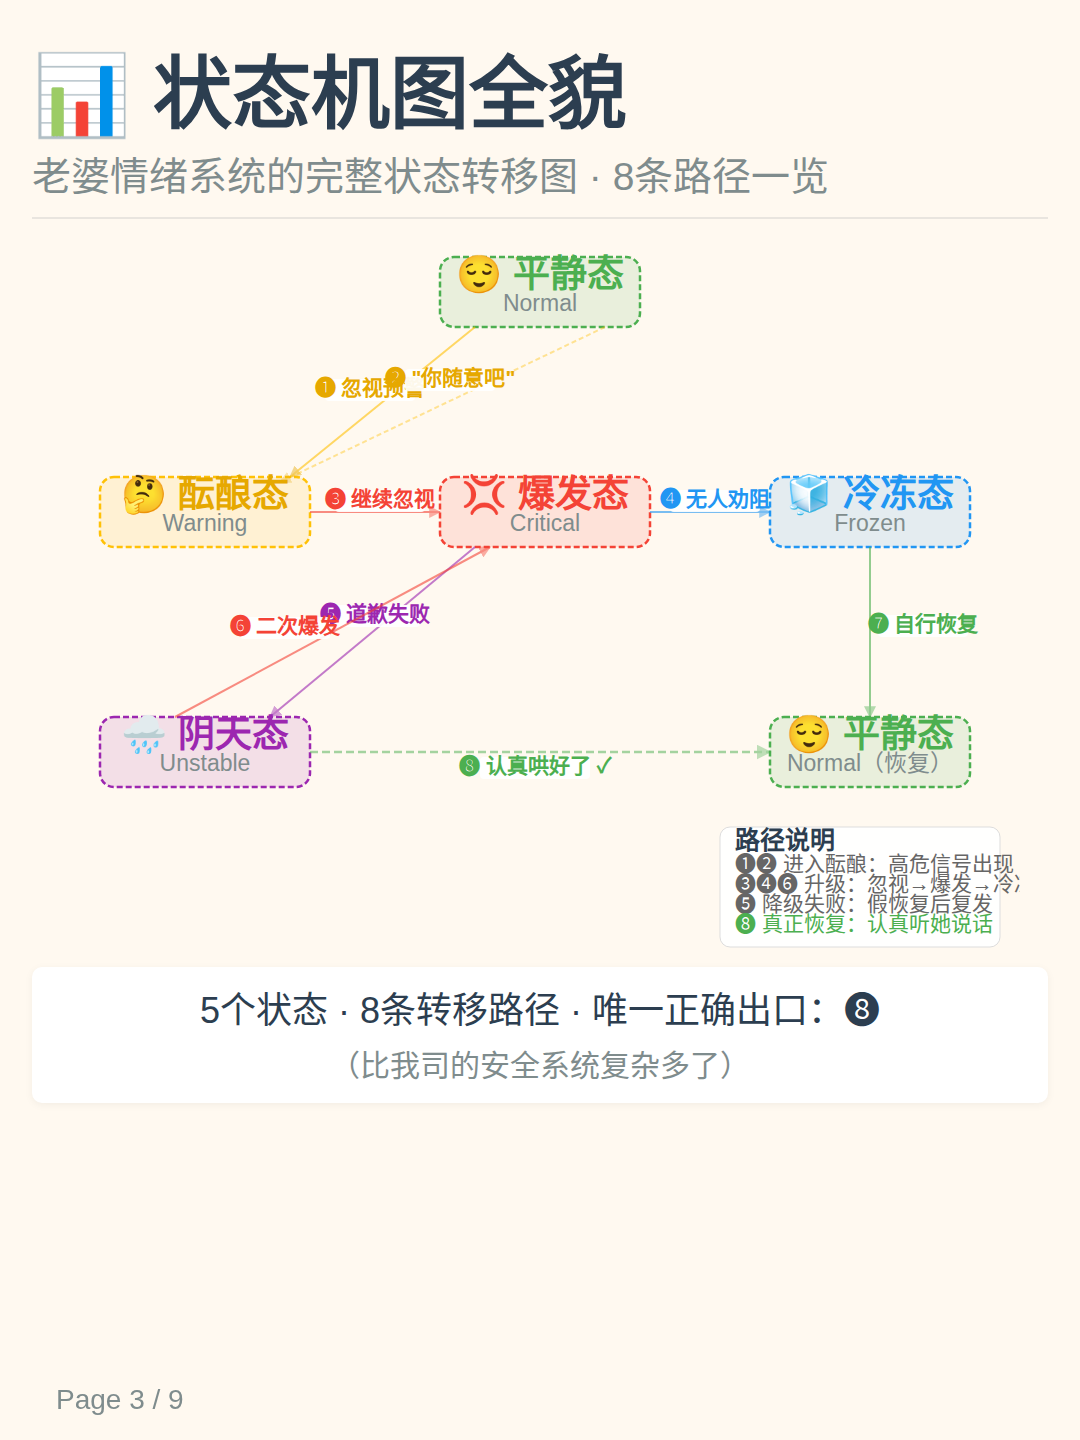
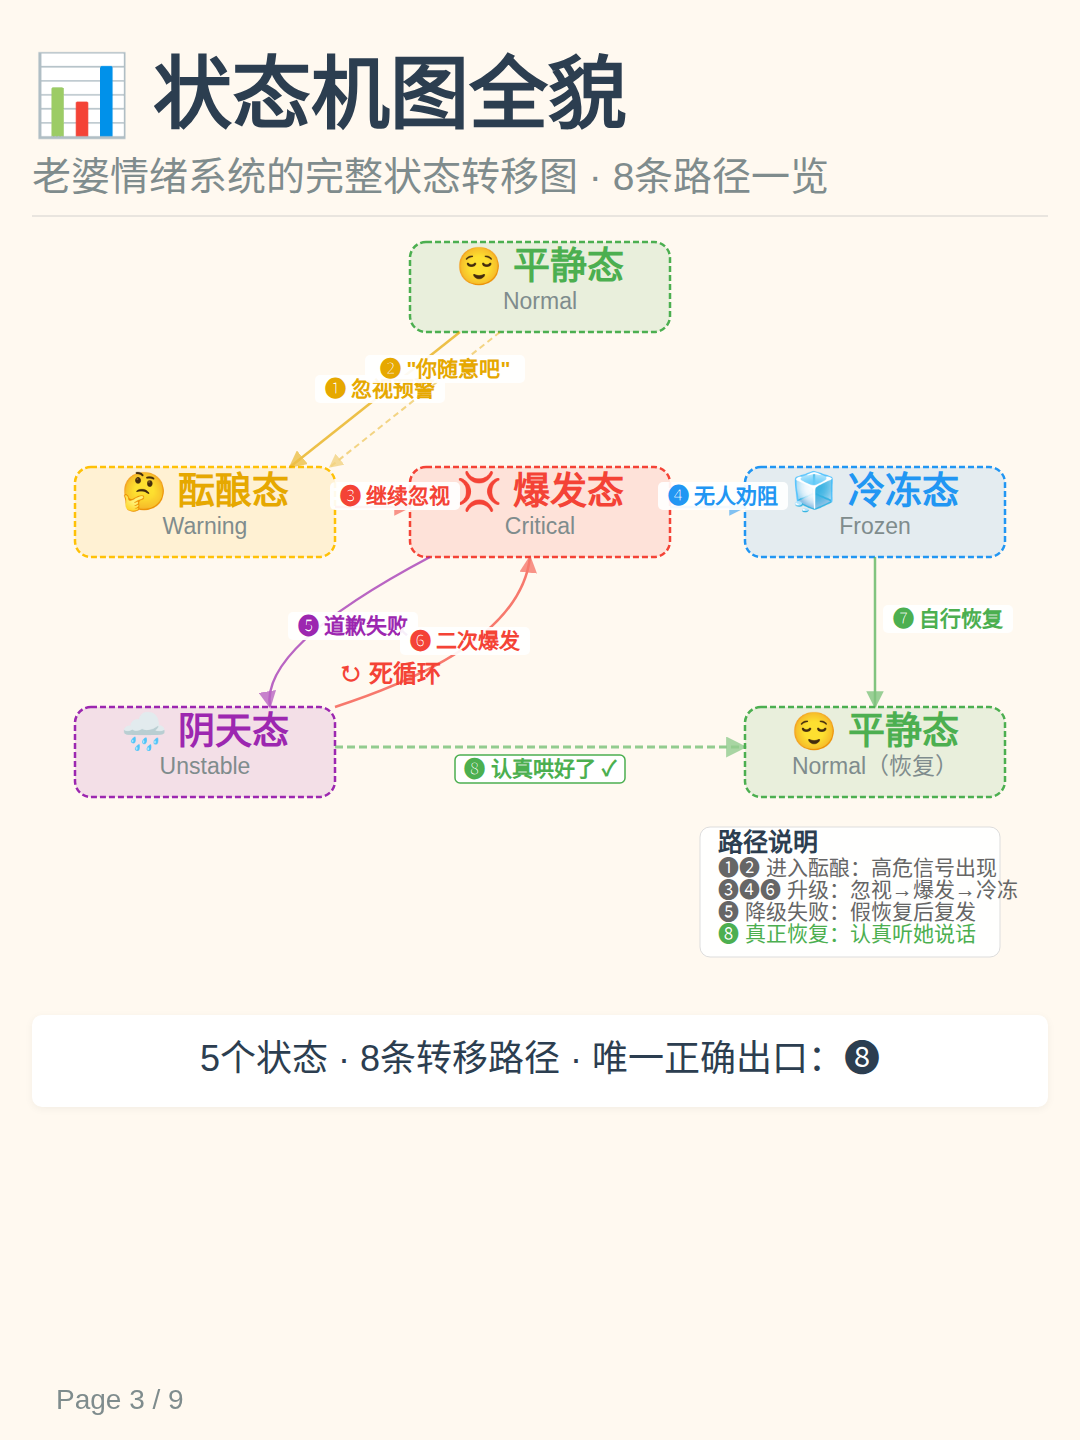
fix: 状态机图框放大260x90，曲线避免❺❻交叉

Changed region(s): [[0.0611, 0.1562, 0.9472, 0.6562], [0.1833, 0.6875, 0.825, 0.75], [0.3972, 0.5, 0.5806, 0.5625]]

diff --git a/wife-anger-cycle/slide-03.html b/wife-anger-cycle/slide-03.html
@@ -1,10 +1,10 @@
-<!DOCTYPE html><html><head><meta charset="utf-8"><style>
+<style>
 *{margin:0;padding:0;box-sizing:border-box}
 body{width:1080px;background:#FFF9F0;font-family:'PingFang SC','Microsoft YaHei',sans-serif;color:#2C3E50}
 .wrap{padding:30px 32px 30px 32px}
 h2{font-size:79px;font-weight:900}
 .sub{font-size:39px;color:#7F8C8D;margin-bottom:14px}
-.card{background:#fff;border-radius:10px;padding:18px 25px;margin:6px 0;box-shadow:0 2px 8px rgba(0,0,0,.05)}
+.card{background:#fff;border-radius:10px;padding:18px 25px;margin:8px 0;box-shadow:0 2px 8px rgba(0,0,0,.05)}
 .txt{font-size:36px;line-height:1.45}
 .sm{font-size:30px;color:#7F8C8D}
 svg text{font-family:'PingFang SC','Microsoft YaHei',sans-serif}
@@ -13,84 +13,70 @@ svg text{font-family:'PingFang SC','Microsoft YaHei',sans-serif}
 <div class="wrap" style="min-height:1440px">
   <h2>📊 状态机图全貌</h2>
   <p class="sub">老婆情绪系统的完整状态转移图 · 8条路径一览</p>
-  <div style="height:2px;background:#2C3E50;opacity:.1;margin:16px 0 18px"></div>
+  <div style="height:2px;background:#2C3E50;opacity:.1;margin:6px 0 10px"></div>
   <div style="text-align:center;margin:6px 0">
-    <svg viewBox="0 0 960 720" width="960" height="720" xmlns="http://www.w3.org/2000/svg">
+    <svg viewBox="0 0 960 780" width="960" height="780" xmlns="http://www.w3.org/2000/svg">
       <defs>
-        <marker id="ag" viewBox="0 0 10 10" refX="9" refY="5" markerWidth="6" markerHeight="6" orient="auto"><path d="M0 0L10 5L0 10z" fill="#4CAF50" opacity=".7"/></marker>
-        <marker id="ay" viewBox="0 0 10 10" refX="9" refY="5" markerWidth="6" markerHeight="6" orient="auto"><path d="M0 0L10 5L0 10z" fill="#E6A800" opacity=".7"/></marker>
-        <marker id="ar" viewBox="0 0 10 10" refX="9" refY="5" markerWidth="6" markerHeight="6" orient="auto"><path d="M0 0L10 5L0 10z" fill="#F44336" opacity=".7"/></marker>
-        <marker id="ab" viewBox="0 0 10 10" refX="9" refY="5" markerWidth="6" markerHeight="6" orient="auto"><path d="M0 0L10 5L0 10z" fill="#2196F3" opacity=".7"/></marker>
-        <marker id="ap" viewBox="0 0 10 10" refX="9" refY="5" markerWidth="6" markerHeight="6" orient="auto"><path d="M0 0L10 5L0 10z" fill="#9C27B0" opacity=".7"/></marker>
+        <marker id="ag" viewBox="0 0 10 10" refX="9" refY="5" markerWidth="7" markerHeight="7" orient="auto"><path d="M0 0L10 5L0 10z" fill="#4CAF50" opacity=".8"/></marker>
+        <marker id="ay" viewBox="0 0 10 10" refX="9" refY="5" markerWidth="7" markerHeight="7" orient="auto"><path d="M0 0L10 5L0 10z" fill="#E6A800" opacity=".8"/></marker>
+        <marker id="ar" viewBox="0 0 10 10" refX="9" refY="5" markerWidth="7" markerHeight="7" orient="auto"><path d="M0 0L10 5L0 10z" fill="#F44336" opacity=".8"/></marker>
+        <marker id="ab" viewBox="0 0 10 10" refX="9" refY="5" markerWidth="7" markerHeight="7" orient="auto"><path d="M0 0L10 5L0 10z" fill="#2196F3" opacity=".8"/></marker>
+        <marker id="ap" viewBox="0 0 10 10" refX="9" refY="5" markerWidth="7" markerHeight="7" orient="auto"><path d="M0 0L10 5L0 10z" fill="#9C27B0" opacity=".8"/></marker>
       </defs>
-
-      <rect x="380" y="20" width="200" height="70" rx="14" fill="#4CAF50" fill-opacity=".12" stroke="#4CAF50" stroke-width="2.5" stroke-dasharray="6,3"/>
-      <text x="480" y="50" text-anchor="middle" font-size="37" font-weight="bold" fill="#4CAF50">😌 平静态</text>
-      <text x="480" y="74" text-anchor="middle" font-size="23" fill="#7F8C8D">Normal</text>
-
-      <rect x="40" y="240" width="210" height="70" rx="14" fill="#FFC107" fill-opacity=".12" stroke="#FFC107" stroke-width="2.5" stroke-dasharray="6,3"/>
-      <text x="145" y="270" text-anchor="middle" font-size="37" font-weight="bold" fill="#E6A800">🤔 酝酿态</text>
-      <text x="145" y="294" text-anchor="middle" font-size="23" fill="#7F8C8D">Warning</text>
-
-      <rect x="380" y="240" width="210" height="70" rx="14" fill="#F44336" fill-opacity=".12" stroke="#F44336" stroke-width="2.5" stroke-dasharray="6,3"/>
-      <text x="485" y="270" text-anchor="middle" font-size="37" font-weight="bold" fill="#F44336">💢 爆发态</text>
-      <text x="485" y="294" text-anchor="middle" font-size="23" fill="#7F8C8D">Critical</text>
-
-      <rect x="710" y="240" width="200" height="70" rx="14" fill="#2196F3" fill-opacity=".12" stroke="#2196F3" stroke-width="2.5" stroke-dasharray="6,3"/>
-      <text x="810" y="270" text-anchor="middle" font-size="37" font-weight="bold" fill="#2196F3">🧊 冷冻态</text>
-      <text x="810" y="294" text-anchor="middle" font-size="23" fill="#7F8C8D">Frozen</text>
-
-      <rect x="40" y="480" width="210" height="70" rx="14" fill="#9C27B0" fill-opacity=".12" stroke="#9C27B0" stroke-width="2.5" stroke-dasharray="6,3"/>
-      <text x="145" y="510" text-anchor="middle" font-size="37" font-weight="bold" fill="#9C27B0">🌧 阴天态</text>
-      <text x="145" y="534" text-anchor="middle" font-size="23" fill="#7F8C8D">Unstable</text>
-
-      <rect x="710" y="480" width="200" height="70" rx="14" fill="#4CAF50" fill-opacity=".12" stroke="#4CAF50" stroke-width="2.5" stroke-dasharray="6,3"/>
-      <text x="810" y="510" text-anchor="middle" font-size="37" font-weight="bold" fill="#4CAF50">😌 平静态</text>
-      <text x="810" y="534" text-anchor="middle" font-size="23" fill="#7F8C8D">Normal（恢复）</text>
-
-      <line x1="415" y1="90" x2="230" y2="240" stroke="#FFC107" stroke-width="2" marker-end="url(#ay)" opacity=".6"/>
-      <rect x="265" y="142" width="90" height="22" rx="4" fill="white" fill-opacity=".92"/>
-      <text x="310" y="158" text-anchor="middle" font-size="21" font-weight="bold" fill="#E6A800">❶ 忽视预警</text>
-
-      <line x1="545" y1="90" x2="220" y2="245" stroke="#FFC107" stroke-width="2" marker-end="url(#ay)" opacity=".4" stroke-dasharray="5,3"/>
-      <rect x="345" y="132" width="90" height="22" rx="4" fill="white" fill-opacity=".92"/>
-      <text x="390" y="148" text-anchor="middle" font-size="21" font-weight="bold" fill="#E6A800">❷ "你随意吧"</text>
-
-      <line x1="250" y1="275" x2="380" y2="275" stroke="#F44336" stroke-width="2" marker-end="url(#ar)" opacity=".6"/>
-      <rect x="275" y="253" width="90" height="22" rx="4" fill="white" fill-opacity=".92"/>
-      <text x="320" y="269" text-anchor="middle" font-size="21" font-weight="bold" fill="#F44336">❸ 继续忽视</text>
-
-      <line x1="590" y1="275" x2="710" y2="275" stroke="#2196F3" stroke-width="2" marker-end="url(#ab)" opacity=".6"/>
-      <rect x="610" y="253" width="90" height="22" rx="4" fill="white" fill-opacity=".92"/>
-      <text x="655" y="269" text-anchor="middle" font-size="21" font-weight="bold" fill="#2196F3">❹ 无人劝阻</text>
-
-      <line x1="415" y1="310" x2="210" y2="480" stroke="#9C27B0" stroke-width="2" marker-end="url(#ap)" opacity=".6"/>
-      <rect x="270" y="368" width="90" height="22" rx="4" fill="white" fill-opacity=".92"/>
-      <text x="315" y="384" text-anchor="middle" font-size="21" font-weight="bold" fill="#9C27B0">❺ 道歉失败</text>
-
-      <line x1="115" y1="480" x2="430" y2="310" stroke="#F44336" stroke-width="2" marker-end="url(#ar)" opacity=".6"/>
-      <rect x="180" y="380" width="90" height="22" rx="4" fill="white" fill-opacity=".92"/>
-      <text x="225" y="396" text-anchor="middle" font-size="21" font-weight="bold" fill="#F44336">❻ 二次爆发</text>
-
-      <line x1="810" y1="310" x2="810" y2="480" stroke="#4CAF50" stroke-width="2" marker-end="url(#ag)" opacity=".6"/>
-      <rect x="818" y="378" width="90" height="22" rx="4" fill="white" fill-opacity=".92"/>
-      <text x="863" y="394" text-anchor="middle" font-size="21" font-weight="bold" fill="#4CAF50">❼ 自行恢复</text>
-
-      <line x1="250" y1="515" x2="710" y2="515" stroke="#4CAF50" stroke-width="2.5" marker-end="url(#ag)" opacity=".5" stroke-dasharray="8,4"/>
-      <rect x="420" y="520" width="110" height="22" rx="4" fill="white" fill-opacity=".92"/>
-      <text x="475" y="536" text-anchor="middle" font-size="21" font-weight="bold" fill="#4CAF50">❽ 认真哄好了 ✓</text>
-
-      <rect x="660" y="590" width="280" height="120" rx="10" fill="white" fill-opacity=".9" stroke="#ddd" stroke-width="1"/>
-      <text x="675" y="612" font-size="25" font-weight="bold" fill="#2C3E50">路径说明</text>
-      <text x="675" y="634" font-size="21" fill="#666">❶❷ 进入酝酿：高危信号出现</text>
-      <text x="675" y="654" font-size="21" fill="#666">❸❹❻ 升级：忽视→爆发→冷冻</text>
-      <text x="675" y="674" font-size="21" fill="#666">❺ 降级失败：假恢复后复发</text>
-      <text x="675" y="694" font-size="21" fill="#4CAF50">❽ 真正恢复：认真听她说话</text>
+      <rect x="350" y="15" width="260" height="90" rx="16" fill="#4CAF50" fill-opacity=".12" stroke="#4CAF50" stroke-width="2.5" stroke-dasharray="6,3"/>
+      <text x="480" y="52" text-anchor="middle" font-size="37" font-weight="bold" fill="#4CAF50">😌 平静态</text>
+      <text x="480" y="82" text-anchor="middle" font-size="23" fill="#7F8C8D">Normal</text>
+      <rect x="15" y="240" width="260" height="90" rx="16" fill="#FFC107" fill-opacity=".12" stroke="#FFC107" stroke-width="2.5" stroke-dasharray="6,3"/>
+      <text x="145" y="277" text-anchor="middle" font-size="37" font-weight="bold" fill="#E6A800">🤔 酝酿态</text>
+      <text x="145" y="307" text-anchor="middle" font-size="23" fill="#7F8C8D">Warning</text>
+      <rect x="350" y="240" width="260" height="90" rx="16" fill="#F44336" fill-opacity=".12" stroke="#F44336" stroke-width="2.5" stroke-dasharray="6,3"/>
+      <text x="480" y="277" text-anchor="middle" font-size="37" font-weight="bold" fill="#F44336">💢 爆发态</text>
+      <text x="480" y="307" text-anchor="middle" font-size="23" fill="#7F8C8D">Critical</text>
+      <rect x="685" y="240" width="260" height="90" rx="16" fill="#2196F3" fill-opacity=".12" stroke="#2196F3" stroke-width="2.5" stroke-dasharray="6,3"/>
+      <text x="815" y="277" text-anchor="middle" font-size="37" font-weight="bold" fill="#2196F3">🧊 冷冻态</text>
+      <text x="815" y="307" text-anchor="middle" font-size="23" fill="#7F8C8D">Frozen</text>
+      <rect x="15" y="480" width="260" height="90" rx="16" fill="#9C27B0" fill-opacity=".12" stroke="#9C27B0" stroke-width="2.5" stroke-dasharray="6,3"/>
+      <text x="145" y="517" text-anchor="middle" font-size="37" font-weight="bold" fill="#9C27B0">🌧 阴天态</text>
+      <text x="145" y="547" text-anchor="middle" font-size="23" fill="#7F8C8D">Unstable</text>
+      <rect x="685" y="480" width="260" height="90" rx="16" fill="#4CAF50" fill-opacity=".12" stroke="#4CAF50" stroke-width="2.5" stroke-dasharray="6,3"/>
+      <text x="815" y="517" text-anchor="middle" font-size="37" font-weight="bold" fill="#4CAF50">😌 平静态</text>
+      <text x="815" y="547" text-anchor="middle" font-size="23" fill="#7F8C8D">Normal（恢复）</text>
+      <line x1="400" y1="105" x2="230" y2="240" stroke="#E6A800" stroke-width="2.5" marker-end="url(#ay)" opacity=".7"/>
+      <rect x="255" y="148" width="130" height="28" rx="5" fill="white" fill-opacity=".92"/>
+      <text x="320" y="169" text-anchor="middle" font-size="21" font-weight="bold" fill="#E6A800">❶ 忽视预警</text>
+      <line x1="440" y1="105" x2="270" y2="240" stroke="#E6A800" stroke-width="2" stroke-dasharray="6,4" marker-end="url(#ay)" opacity=".45"/>
+      <rect x="305" y="128" width="160" height="28" rx="5" fill="white" fill-opacity=".92"/>
+      <text x="385" y="149" text-anchor="middle" font-size="21" font-weight="bold" fill="#E6A800">❷ "你随意吧"</text>
+      <line x1="275" y1="280" x2="350" y2="280" stroke="#F44336" stroke-width="2.5" marker-end="url(#ar)" opacity=".7"/>
+      <rect x="270" y="255" width="130" height="28" rx="5" fill="white" fill-opacity=".92"/>
+      <text x="335" y="276" text-anchor="middle" font-size="21" font-weight="bold" fill="#F44336">❸ 继续忽视</text>
+      <line x1="610" y1="280" x2="685" y2="280" stroke="#2196F3" stroke-width="2.5" marker-end="url(#ab)" opacity=".7"/>
+      <rect x="598" y="255" width="130" height="28" rx="5" fill="white" fill-opacity=".92"/>
+      <text x="663" y="276" text-anchor="middle" font-size="21" font-weight="bold" fill="#2196F3">❹ 无人劝阻</text>
+      <path d="M370 330 Q200 420 210 480" fill="none" stroke="#9C27B0" stroke-width="2.5" marker-end="url(#ap)" opacity=".7"/>
+      <rect x="228" y="385" width="130" height="28" rx="5" fill="white" fill-opacity=".92"/>
+      <text x="293" y="406" text-anchor="middle" font-size="21" font-weight="bold" fill="#9C27B0">❺ 道歉失败</text>
+      <path d="M275 480 Q460 420 470 330" fill="none" stroke="#F44336" stroke-width="2.5" marker-end="url(#ar)" opacity=".7"/>
+      <rect x="340" y="400" width="130" height="28" rx="5" fill="white" fill-opacity=".92"/>
+      <text x="405" y="421" text-anchor="middle" font-size="21" font-weight="bold" fill="#F44336">❻ 二次爆发</text>
+      <text x="330" y="455" text-anchor="middle" font-size="24" fill="#F44336" font-weight="bold">↻ 死循环</text>
+      <line x1="815" y1="330" x2="815" y2="480" stroke="#4CAF50" stroke-width="2.5" marker-end="url(#ag)" opacity=".7"/>
+      <rect x="823" y="378" width="130" height="28" rx="5" fill="white" fill-opacity=".92"/>
+      <text x="888" y="399" text-anchor="middle" font-size="21" font-weight="bold" fill="#4CAF50">❼ 自行恢复</text>
+      <line x1="275" y1="520" x2="685" y2="520" stroke="#4CAF50" stroke-width="3" stroke-dasharray="8,4" marker-end="url(#ag)" opacity=".6"/>
+      <rect x="395" y="528" width="170" height="28" rx="5" fill="white" fill-opacity=".95" stroke="#4CAF50" stroke-width="1.5"/>
+      <text x="480" y="549" text-anchor="middle" font-size="21" font-weight="bold" fill="#4CAF50">❽ 认真哄好了 ✓</text>
+      <rect x="640" y="600" width="300" height="130" rx="10" fill="white" fill-opacity=".9" stroke="#ddd" stroke-width="1"/>
+      <text x="658" y="624" font-size="25" font-weight="bold" fill="#2C3E50">路径说明</text>
+      <text x="658" y="648" font-size="21" fill="#666">❶❷ 进入酝酿：高危信号出现</text>
+      <text x="658" y="670" font-size="21" fill="#666">❸❹❻ 升级：忽视→爆发→冷冻</text>
+      <text x="658" y="692" font-size="21" fill="#666">❺ 降级失败：假恢复后复发</text>
+      <text x="658" y="714" font-size="21" fill="#4CAF50">❽ 真正恢复：认真听她说话</text>
     </svg>
   </div>
   <div class="card">
     <p class="txt" style="text-align:center">5个状态 · 8条转移路径 · 唯一正确出口：❽</p>
-    <p class="sm" style="text-align:center;margin-top:4px">（比我司的安全系统复杂多了）</p>
+    <p class="sm" style="text-align:center;margin-top:4px"></p>
   </div>
 </div>
 <div class="foot">Page 3 / 9</div>
